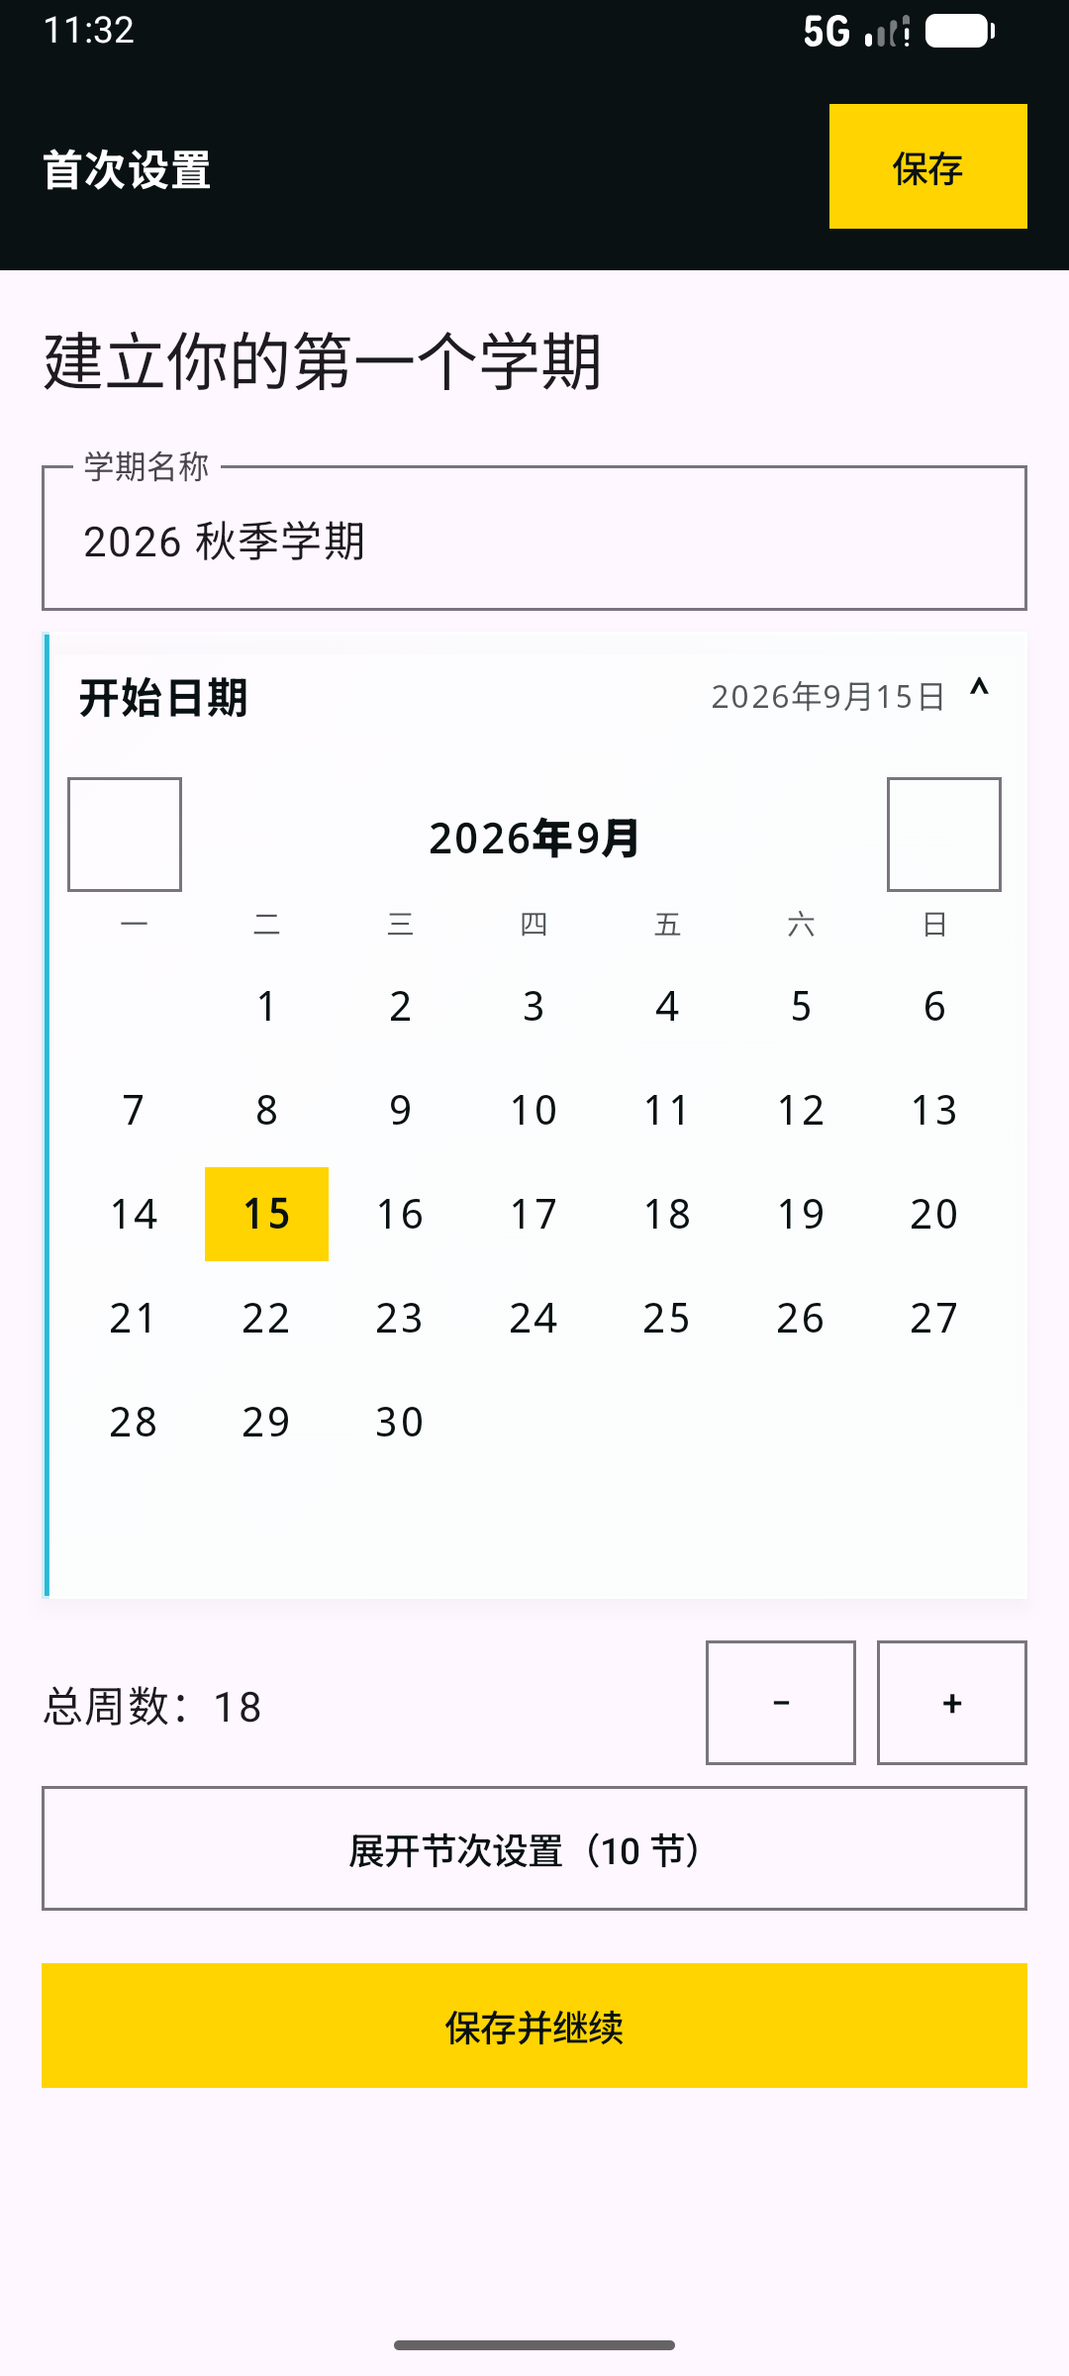
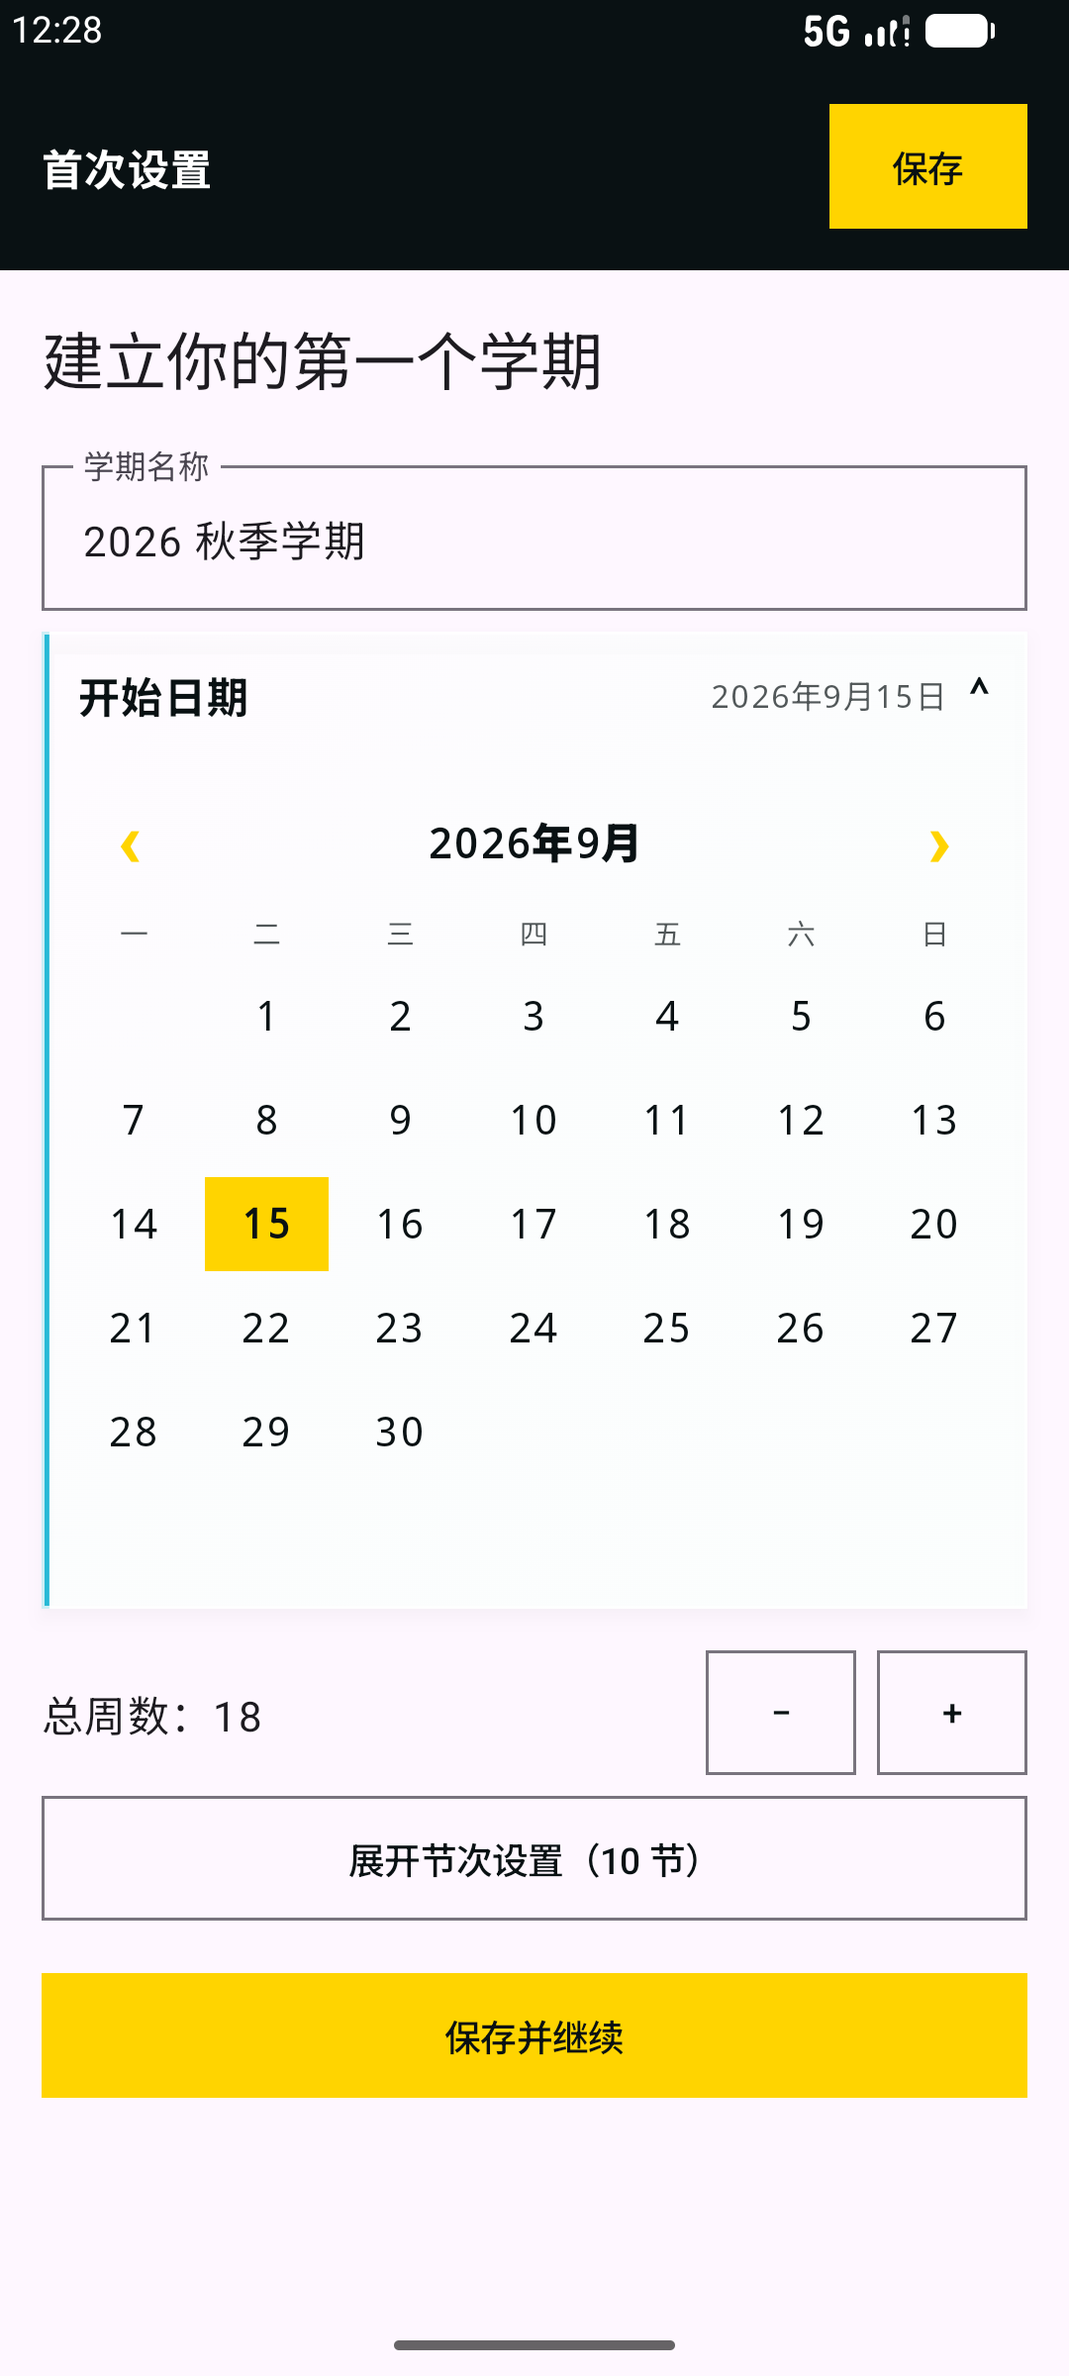
fix(android): close visual r3 review findings

diff --git a/Android/app/src/androidTest/java/com/qingke/schedule/ui/QingKeAppTest.kt b/Android/app/src/androidTest/java/com/qingke/schedule/ui/QingKeAppTest.kt
@@ -268,6 +268,7 @@ class QingKeAppTest {
         val expected = 64.dp.value * rule.density.density
         assertTrue("ADD width=${addBounds.width}", kotlin.math.abs(addBounds.width - expected) <= 1f)
         assertTrue("ADD height=${addBounds.height}", kotlin.math.abs(addBounds.height - expected) <= 1f)
+        assertAddChromeIsActuallyDrawn()
         rule.onNodeWithText("QUEUE EMPTY", useUnmergedTree = true).assertIsDisplayed()
         rule.onNodeWithText("STANDBY", useUnmergedTree = true).assertIsDisplayed()
         rule.onNodeWithText("使用右下角 ADD 录入一门新课程。", useUnmergedTree = true).assertIsDisplayed()
@@ -356,6 +357,7 @@ class QingKeAppTest {
             rule.onNodeWithTag("course-validation-icon", useUnmergedTree = true).assertIsDisplayed()
             val validation = rule.onNodeWithTag("course-validation", useUnmergedTree = true).fetchSemanticsNode().boundsInRoot
             assertTrue("validation height=${validation.height}", validation.height >= 52f)
+            assertDangerCardHasCoralIconAndRail()
             rule.onNodeWithTag("course-danger-zone").performScrollTo()
             rule.onNodeWithTag("course-danger-footer").performScrollTo()
             val delete = rule.onNodeWithTag("course-delete", useUnmergedTree = true).fetchSemanticsNode().boundsInRoot
@@ -375,6 +377,7 @@ class QingKeAppTest {
             val surface = rule.onNodeWithTag("course-delete-confirm", useUnmergedTree = true).fetchSemanticsNode().boundsInRoot
             val backdrop = rule.onNodeWithTag("course-delete-confirm-backdrop", useUnmergedTree = true).fetchSemanticsNode().boundsInRoot
             assertTrue("surface must be inside backdrop", surface.left >= backdrop.left && surface.right <= backdrop.right)
+            assertModalSurfaceIsOpaque(appearance)
         }
     }
 
@@ -473,7 +476,7 @@ class QingKeAppTest {
         rule.onAllNodesWithTag("semester-start-date-calendar").assertCountEquals(0)
     }
 
-    @Test fun inlineSemesterCalendarRetainsLeapDayAndActivityStateAcrossRecomposition() {
+    @Test fun inlineSemesterCalendarRetainsLeapDayAcrossRecomposition() {
         var form by mutableStateOf(defaultForm().copy(startDate = LocalDate.of(2024, 2, 1)))
         rule.setContent { QingKeAppContent(onboarding(), form, MainTab.TODAY, QingKeAppActions(updateStartDate = { form = form.copy(startDate = it) })) }
         rule.onNodeWithTag("semester-start-date").performClick()
@@ -482,6 +485,21 @@ class QingKeAppTest {
         rule.onNodeWithTag("semester-start-date-calendar").assertIsDisplayed()
         rule.onNodeWithTag("semester-calendar-day-2024-02-29").assertIsDisplayed()
         assertEquals(LocalDate.of(2024, 2, 29), form.startDate)
+    }
+
+    @Test fun inlineCalendarChevronIsVisibleAndAccessibleAcrossThemesAndLargeFont() {
+        var state by mutableStateOf(onboarding().copy(preferences = SchedulePreferences.defaults.copy(appearanceMode = AppearanceMode.LIGHT)))
+        var scale by mutableStateOf(1f)
+        rule.setContent { CompositionLocalProvider(LocalDensity provides Density(rule.density.density, scale)) { QingKeAppContent(state, defaultForm(), MainTab.TODAY, QingKeAppActions()) } }
+        rule.onNodeWithTag("semester-start-date").performClick()
+        listOf(AppearanceMode.LIGHT, AppearanceMode.DARK).forEach { mode ->
+            state = state.copy(preferences = state.preferences.copy(appearanceMode = mode)); scale = 1.3f; rule.waitForIdle()
+            listOf("semester-calendar-previous", "semester-calendar-next").forEach { tag ->
+                rule.onNodeWithTag(tag).assertIsDisplayed()
+                assertAtLeast48Dp(tag)
+                assertCalendarChevronHasSignalPixels(tag)
+            }
+        }
     }
 
     @Test fun systemTimeDialogsConfirmNewValuesAndCancelLeavesExistingValues() {
@@ -747,6 +765,42 @@ class QingKeAppTest {
         assertFitsRootHorizontally(tag)
         val bounds = rule.onNodeWithTag(tag, useUnmergedTree = true).fetchSemanticsNode().boundsInRoot
         assertTrue("$tag height=${bounds.height}", bounds.height <= 48.dp.value * rule.density.density)
+    }
+
+    private fun assertCalendarChevronHasSignalPixels(tag: String) {
+        val bitmap = rule.onNodeWithTag(tag, useUnmergedTree = true).captureToImage().asAndroidBitmap()
+        val count = (0 until bitmap.height).sumOf { y -> (0 until bitmap.width).count { x ->
+            val pixel = bitmap.getPixel(x, y); val red = pixel shr 16 and 0xff; val green = pixel shr 8 and 0xff; val blue = pixel and 0xff
+            red > 215 && green > 155 && blue < 70
+        } }
+        assertTrue("$tag signal pixels=$count", count >= 12)
+    }
+
+    private fun assertAddChromeIsActuallyDrawn() {
+        val bitmap = rule.onNodeWithTag("today-add-visual", useUnmergedTree = true).captureToImage().asAndroidBitmap()
+        fun isDark(pixel: Int): Boolean { val red = pixel shr 16 and 0xff; val green = pixel shr 8 and 0xff; val blue = pixel and 0xff; return red < 150 && green < 150 && blue < 150 }
+        val borderPixels = ((bitmap.width * .20f).toInt() until (bitmap.width * .70f).toInt()).sumOf { x -> (0 until (bitmap.height * .18f).toInt()).count { y -> isDark(bitmap.getPixel(x, y)) } }
+        val foldPixels = ((bitmap.width * .80f).toInt() until (bitmap.width * .98f).toInt()).sumOf { x -> ((bitmap.height * .04f).toInt() until (bitmap.height * .24f).toInt()).count { y -> isDark(bitmap.getPixel(x, y)) } }
+        assertTrue("ADD inner border pixels=$borderPixels", borderPixels >= 8)
+        assertTrue("ADD fold pixels=$foldPixels", foldPixels >= 12)
+    }
+
+    private fun assertDangerCardHasCoralIconAndRail() {
+        val bitmap = rule.onNodeWithTag("course-validation", useUnmergedTree = true).captureToImage().asAndroidBitmap()
+        val coralPixels = (0 until bitmap.height).sumOf { y -> (0 until bitmap.width).count { x ->
+            val pixel = bitmap.getPixel(x, y); val red = pixel shr 16 and 0xff; val green = pixel shr 8 and 0xff; val blue = pixel and 0xff
+            red > 175 && green in 50..125 && blue in 45..125
+        } }
+        assertTrue("validation coral pixels=$coralPixels", coralPixels >= 20)
+    }
+
+    private fun assertModalSurfaceIsOpaque(appearance: AppearanceMode) {
+        val bitmap = rule.onNodeWithTag("course-delete-confirm", useUnmergedTree = true).captureToImage().asAndroidBitmap()
+        val center = (bitmap.width / 5 until bitmap.width * 4 / 5).sumOf { x -> (bitmap.height / 4 until bitmap.height * 3 / 4).count { y ->
+            val pixel = bitmap.getPixel(x, y); val red = pixel shr 16 and 0xff; val green = pixel shr 8 and 0xff; val blue = pixel and 0xff
+            if (appearance == AppearanceMode.LIGHT) red >= 220 && green >= 220 && blue >= 220 else red in 8..55 && green in 15..75 && blue in 15..80
+        } }
+        assertTrue("$appearance opaque modal pixels=$center", center >= 80)
     }
 
     private fun assertEditorCloseHasVisibleLightInk(appearance: AppearanceMode, fontScale: Float) {

diff --git a/Android/app/src/main/java/com/qingke/schedule/ui/QingKeApp.kt b/Android/app/src/main/java/com/qingke/schedule/ui/QingKeApp.kt
@@ -335,9 +335,9 @@ fun QingKeAppContent(
 @Composable private fun InlineMonthCalendar(month: YearMonth, selected: LocalDate, dark: Boolean, select: (LocalDate) -> Unit, changeMonth: (Boolean) -> Unit) {
     Column(Modifier.fillMaxWidth().padding(horizontal = 10.dp, vertical = 8.dp).testTag("semester-start-date-calendar")) {
         Row(Modifier.fillMaxWidth().heightIn(min = 44.dp), verticalAlignment = Alignment.CenterVertically) {
-            OutlinedButton({ changeMonth(false) }, Modifier.size(44.dp).testTag("semester-calendar-previous"), shape = TerminalShape) { Text("‹") }
+            CalendarMonthButton("‹", "上一个月", "semester-calendar-previous") { changeMonth(false) }
             Text(month.format(DateTimeFormatter.ofPattern("yyyy年M月", Locale.CHINA)), color = terminalText(dark), fontFamily = FontFamily.Monospace, fontWeight = FontWeight.Black, modifier = Modifier.weight(1f), textAlign = androidx.compose.ui.text.style.TextAlign.Center,)
-            OutlinedButton({ changeMonth(true) }, Modifier.size(44.dp).testTag("semester-calendar-next"), shape = TerminalShape) { Text("›") }
+            CalendarMonthButton("›", "下一个月", "semester-calendar-next") { changeMonth(true) }
         }
         Row(Modifier.fillMaxWidth()) { listOf("一", "二", "三", "四", "五", "六", "日").forEach { day -> Text(day, Modifier.weight(1f), color = terminalSecondary(dark), fontSize = 11.sp, fontFamily = FontFamily.Monospace, textAlign = androidx.compose.ui.text.style.TextAlign.Center) } }
         SemesterMonthGrid.dates(month).chunked(SemesterMonthGrid.columns).forEach { week ->
@@ -360,6 +360,11 @@ fun QingKeAppContent(
         }
     }
 }
+
+@Composable private fun CalendarMonthButton(symbol: String, label: String, tag: String, action: () -> Unit) = Box(
+    Modifier.size(48.dp).clickable(onClick = action).testTag(tag).semantics { contentDescription = label },
+    contentAlignment = Alignment.Center,
+) { Text(symbol, color = SignalYellow, fontSize = 30.sp, lineHeight = 30.sp, fontWeight = FontWeight.Black, fontFamily = FontFamily.SansSerif) }
 
 @Composable private fun WeekControl(value: Int, update: (Int) -> Unit) = Row(Modifier.fillMaxWidth().padding(vertical = 8.dp), verticalAlignment = Alignment.CenterVertically) {
     Text("总周数：$value", Modifier.weight(1f).testTag("semester-total-weeks"))
@@ -498,7 +503,14 @@ fun QingKeAppContent(
     }
 }
 
-@Composable private fun TodayAddButton(addCourse: () -> Unit) = Button(addCourse, Modifier.size(64.dp).drawBehind { val inset = 3.dp.toPx(); val fold = 13.dp.toPx(); drawRect(InverseSurface.copy(alpha = .78f), topLeft = androidx.compose.ui.geometry.Offset(inset, inset), size = androidx.compose.ui.geometry.Size(size.width - inset * 2, size.height - inset * 2), style = Stroke(1.dp.toPx())); val path = androidx.compose.ui.graphics.Path().apply { moveTo(size.width - inset - fold, inset); lineTo(size.width - inset, inset); lineTo(size.width - inset, inset + fold); close() }; drawPath(path, InverseSurface.copy(alpha = .86f)); drawLine(InverseSurface.copy(alpha = .78f), androidx.compose.ui.geometry.Offset(size.width - inset - fold, inset), androidx.compose.ui.geometry.Offset(size.width - inset, inset + fold), 1.dp.toPx()) }.testTag("today-add-course").semantics { contentDescription = "添加课程" }, shape = TerminalShape, contentPadding = androidx.compose.foundation.layout.PaddingValues(0.dp), colors = ButtonDefaults.buttonColors(containerColor = SignalYellow, contentColor = InverseSurface)) { Column(horizontalAlignment = Alignment.CenterHorizontally) { Text("+", fontSize = 25.sp, lineHeight = 22.sp, fontWeight = FontWeight.Light, fontFamily = FontFamily.SansSerif, modifier = Modifier.testTag("today-add-plus")); Text("ADD", fontFamily = FontFamily.Monospace, fontSize = 8.sp, fontWeight = FontWeight.Black, modifier = Modifier.testTag("today-add-label")) } }
+@Composable private fun TodayAddButton(addCourse: () -> Unit) = Button(addCourse, Modifier.size(64.dp).testTag("today-add-course").semantics { contentDescription = "添加课程" }, shape = TerminalShape, contentPadding = androidx.compose.foundation.layout.PaddingValues(0.dp), colors = ButtonDefaults.buttonColors(containerColor = SignalYellow, contentColor = InverseSurface)) {
+    Box(Modifier.fillMaxSize().drawBehind {
+        val inset = 3.dp.toPx(); val fold = 13.dp.toPx()
+        drawRect(InverseSurface.copy(alpha = .82f), topLeft = androidx.compose.ui.geometry.Offset(inset, inset), size = androidx.compose.ui.geometry.Size(size.width - inset * 2, size.height - inset * 2), style = Stroke(1.dp.toPx()))
+        val path = androidx.compose.ui.graphics.Path().apply { moveTo(size.width - inset - fold, inset); lineTo(size.width - inset, inset); lineTo(size.width - inset, inset + fold); close() }
+        drawPath(path, InverseSurface.copy(alpha = .88f)); drawLine(InverseSurface.copy(alpha = .82f), androidx.compose.ui.geometry.Offset(size.width - inset - fold, inset), androidx.compose.ui.geometry.Offset(size.width - inset, inset + fold), 1.dp.toPx())
+    }.testTag("today-add-visual"), contentAlignment = Alignment.Center) { Column(horizontalAlignment = Alignment.CenterHorizontally) { Text("+", fontSize = 25.sp, lineHeight = 22.sp, fontWeight = FontWeight.Light, fontFamily = FontFamily.SansSerif, modifier = Modifier.testTag("today-add-plus")); Text("ADD", fontFamily = FontFamily.Monospace, fontSize = 8.sp, fontWeight = FontWeight.Black, modifier = Modifier.testTag("today-add-label")) } }
+}
 
 @Composable private fun BrandHeader(dark: Boolean, code: String = "LOCAL / 01", tag: String = "today-brand-header") = Row(
     Modifier.fillMaxWidth().padding(horizontal = 20.dp).padding(top = 8.dp, bottom = 12.dp).border(width = 0.dp, color = Color.Transparent)

diff --git a/docs/Android/handoff.md b/docs/Android/handoff.md
@@ -1,5 +1,15 @@
 # 安卓项目当前交接状态
 
+## P3-04 视觉 R3 集中复审返修已完成，待 Sol 再复审／用户验收（最新，2026-09-15）
+
+本轮严格限定在 P3-04 视觉 R3＋首次设置月历的集中复审返修：修复月历前后按钮的空方框、TODAY ADD 装饰被内容层覆盖、canonical 截图时机不正确，以及确认层仅有 bounds 断言的问题。未改 iOS、Web、`source/`、Room、业务规则、共享协议或其他阶段，未合并 `main`。
+
+- 开始基准为 `2c086dad4416770f9edeef6b526f5af7b2de7fff`，分支 `Android`，开始时工作区干净且 `origin/Android` 同步；本节不预写尚未生成的提交编号。
+- 月历前后按钮改为无外框的 `48dp` 点击区、黄色 `‹`／`›`，保留 test tag 和中文 content description；新增浅色、深色及 130% 字体的像素／无障碍回归。TODAY ADD 的 3dp 内框、13dp 折角与斜线移至黄色内容层，新增 bitmap 像素回归；校验卡增加 coral 图标／左线像素证明，确认层增加高不透明 surface 像素契约。
+- 以最终生产入口重新拍摄首次设置月历、TODAY、校验、成功、chooser、危险区 footer、浅色删除确认和深色 130% 删除确认；证据清单见 `docs/Android/evidence/p3-04-visual-r3/README.md`。清数据后创建并保留 `VisualR3`，最终设备恢复 light／1.0 并停在 TODAY。
+- 最终验证：Debug／Release JVM 各 **90 tests、0 failures/errors/skipped**；Debug、Release 和 AndroidTest APK 构建通过；`lintDebug` **0 errors、21 warnings**；API 37 ARM64 `qingke-api37-r3-arm`（`emulator-5554`）最终完整 `connectedDebugAndroidTest --rerun-tasks` **64 tests、0 failures/errors/skipped**，XML 位于 `Android/app/build/outputs/androidTest-results/connected/debug/TEST-qingke-api37-r3-arm(AVD) - 17.xml`。生产入口与上述截图已核对，目标 logcat 未匹配 FATAL／ANR。
+- 准确状态：**已实现、已测试、等待 Sol 再次集中实际 diff 复审；用户尚未验收。** 不得据此启动下一阶段、重新设计界面或声称用户视觉认可。
+
 ## P3-04 视觉 R3＋首次设置月历补充已实施并待 Sol 审查／用户验收（最新，2026-09-15）
 
 本轮仅实施用户明确授权的七项视觉修正及首次设置日期控件：开始日期从系统 `DatePickerDialog` 改为页面内、周一开头的中文月历（跨月／跨年和闰日）；TODAY ADD 为 64dp；chooser `plus.square` 使用主题正文前景；危险区 footer 移至删除按钮面板外下方；确认层采用高不透明度专用 elevated acrylic；成功通知改为黄色左线／圆点／勾；课程和学期校验改为危险提示卡。未修改周课表、完整设置、通知、导入导出、iOS、Web、`source/`、Room 或共享协议，也未合并 `main`。

diff --git a/docs/Android/evidence/p3-04-visual-r3/README.md b/docs/Android/evidence/p3-04-visual-r3/README.md
@@ -1,11 +1,15 @@
 # P3-04 视觉 R3 与首次设置月历证据
 
-本目录记录 2026-09-15 在 `qingke-api37-r3-arm`（API 37、`arm64-v8a`）完成的生产入口复拍。它是技术验证证据，不表示 Sol 独立审查或用户视觉验收。
+本目录记录 2026-09-15 在 `qingke-api37-r3-arm`（API 37、`arm64-v8a`）以最终修正代码完成的生产入口复拍。它是技术验证证据，不表示 Sol 独立审查或用户视觉验收。
 
-- `onboarding-calendar-light-100.png`：清除生产 App 数据后的首次设置；开始日期已展开为页面内中文月历。
-- `today-light-100.png`：保存首次学期后的 TODAY 与 64dp ADD。
-- `course-validation-light-100.png`：CREATE 路径的校验状态复拍。
-- `course-success-light-100.png`：编辑保存后 TODAY 的成功通知、ADD 与 tab 栈。
+- `onboarding-calendar-light-100.png`：清除生产 App 数据后的首次设置；页面内中文月历及清晰、无外框的黄色前后月 chevron。
+- `today-light-100.png`：保存首次学期后的 TODAY；64dp ADD 的内框与右上折角均实际可见。
+- `chooser-light-100.png`：TODAY ADD chooser；`plus.square` 使用黑色正文前景，cyan 仅保留为 panel 左线。
+- `course-validation-light-100.png`：CREATE 空名称保存后的危险校验卡，含 coral 左线和图标。
+- `course-success-light-100.png`：创建 `VisualR3` 后的成功通知、ADD 与 tab 栈。
+- `danger-footer-light-100.png`：EDIT 页的删除按钮面板及其卡外危险说明 footer。
+- `delete-modal-light-100.png`：浅色删除确认层；高不透明 modal surface 遮蔽背景内容。
+- `delete-modal-dark-130.png`：深色及 `font_scale=1.3` 下的删除确认层，确认文字、按钮和不透明 surface 的可读性。
 - `today-dark-130.png`：深色及 `font_scale=1.3` 下的 TODAY 与 ADD。
 
-自动化：Debug／Release JVM 各 90 tests 通过；`connectedDebugAndroidTest --rerun-tasks` 为 63 tests、0 failures/errors/skipped；`lintDebug` 为 0 errors、21 warnings。生产验证后已恢复 light／1.0，App 停在 TODAY，并保留 `VisualR3` 课程供后续目视验收。logcat 未发现 `FATAL EXCEPTION` 或目标 App ANR。
+自动化：Debug／Release JVM 各 90 tests 通过；最终 `connectedDebugAndroidTest --rerun-tasks` 为 64 tests、0 failures/errors/skipped；`lintDebug` 为 0 errors、21 warnings。生产验证后已恢复 light／1.0，App 停在 TODAY，并保留 `VisualR3` 课程供后续目视验收。logcat 未发现 `FATAL EXCEPTION` 或目标 App ANR。
